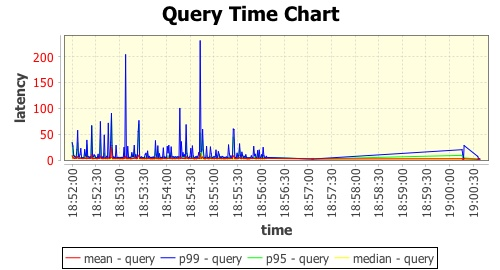
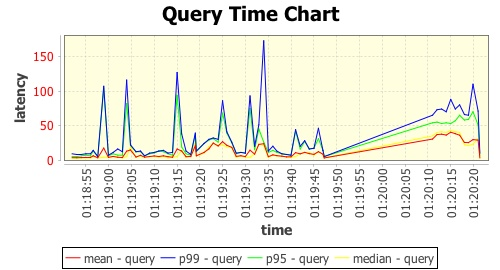
modify worker threads number

diff --git a/src/main/java/com/cs6650/performance/server/BackgroundMessengerManager.java b/src/main/java/com/cs6650/performance/server/BackgroundMessengerManager.java
@@ -27,20 +27,23 @@ public class BackgroundMessengerManager implements ServletContextListener {
             threadPool.add(r);
             r.start();
         }
-        FailureMetricsWorkder f = new FailureMetricsWorkder();
-        threadPool.add(f);
-        f.start();
-        ResponseTimeMetricsWorker re = new ResponseTimeMetricsWorker();
-        threadPool.add(re);
-        re.start();
-        QueryTimeMetricsWorker q = new QueryTimeMetricsWorker();
-        threadPool.add(q);
-        q.start();
+
+        for (int j = 0; j < 5; j++) {
+            FailureMetricsWorkder f = new FailureMetricsWorkder();
+            threadPool.add(f);
+            f.start();
+            ResponseTimeMetricsWorker re = new ResponseTimeMetricsWorker();
+            threadPool.add(re);
+            re.start();
+            QueryTimeMetricsWorker q = new QueryTimeMetricsWorker();
+            threadPool.add(q);
+            q.start();
+        }
         System.out.println("messenger threads requesting done...");
     }
 
     public void contextDestroyed(ServletContextEvent servletContextEvent) {
-        for (int i = 0; i < THREAD_NUM + SQS_MSG_THREAD_NUM; i++) {
+        for (int i = 0; i < THREAD_NUM + SQS_MSG_THREAD_NUM * 5; i++) {
             threadPool.get(i).setDone();
         }
         ConnectionFactory.closeDatasource();

diff --git a/src/main/java/com/cs6650/performance/server/SQSMesengerProcessor.java b/src/main/java/com/cs6650/performance/server/SQSMesengerProcessor.java
@@ -22,8 +22,8 @@ import java.util.Locale;
 public class SQSMesengerProcessor extends MetricsWorker{
 
 
-    private static String aws_access_key_id = "AKIAJBUVNVYNCUQOY2DA";
-    private static String aws_secret_access_key = "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";
+    private static String aws_access_key_id = "";
+    private static String aws_secret_access_key = "";
     private final String queueUrl =
             "https://sqs.us-west-2.amazonaws.com/761353588507/cs6650-server-performace-queue";
     private AmazonSQS sqsClient;

diff --git a/src/main/java/com/cs6650/performance/client/PerformanceMetricsClient.java b/src/main/java/com/cs6650/performance/client/PerformanceMetricsClient.java
@@ -24,8 +24,8 @@ public class PerformanceMetricsClient {
   public static void main(String[] argv) throws Exception {
     // Please, do not remove this line from file template, here invocation of web service will be inserted
     System.out.println("Total: ");
-    getStatsForResponseTimes("total");
-    getStatsForQueryTimes("total");
+    getStatsForResponseTimes("ip-172-31-3-227");
+    getStatsForQueryTimes("ip-172-31-3-227");
   }
 
   private static void getStatsForResponseTimes(String hostname) throws Exception{

diff --git a/src/main/java/com/cs6650/performance/server/ConnectionFactory.java b/src/main/java/com/cs6650/performance/server/ConnectionFactory.java
@@ -13,8 +13,8 @@ public class ConnectionFactory {
 
     private static final String URL =
             "jdbc:postgresql://cs6650.c5yqzec6hhrx.us-west-2.rds.amazonaws.com/assignment2";
-    private static final String USER = "saiki";
-    private static final String PASS = "12345678";
+    private static final String USER = "";
+    private static final String PASS = "";
     private static DataSource DATA_SOURCE;
 
     static {
